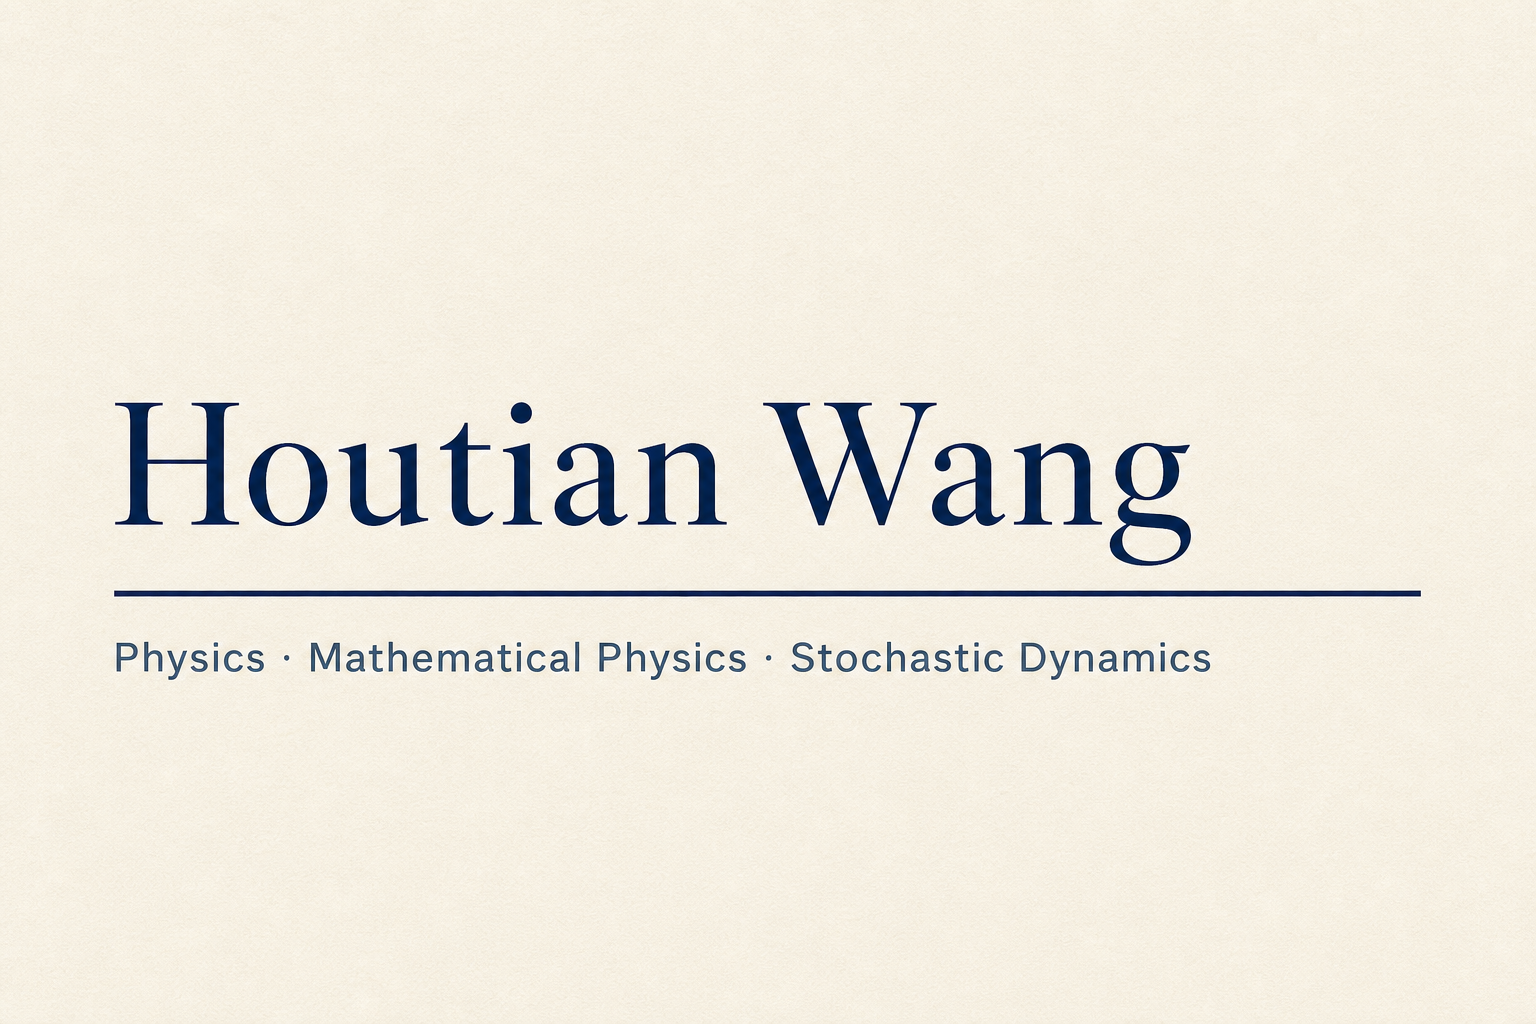
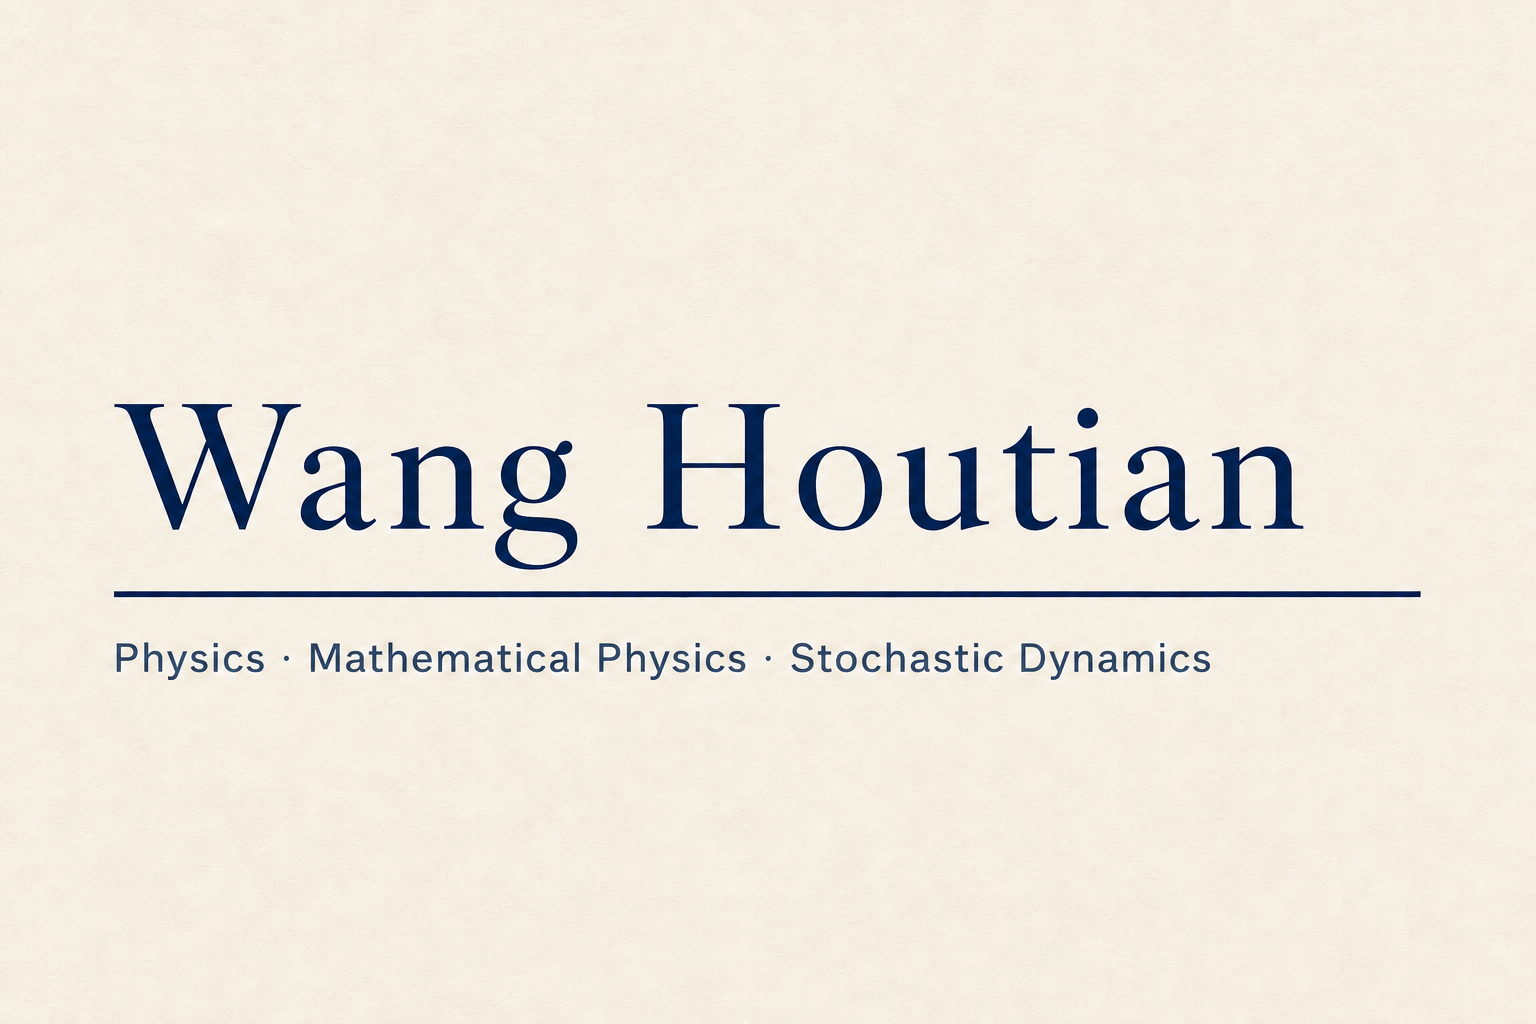
Refine academic name and research directions

Changed region(s): [[0.0625, 0.375, 0.9062, 0.5938], [0.2188, 0.625, 0.7812, 0.6562], [0.0938, 0.625, 0.1875, 0.6562]]

diff --git a/index.html b/index.html
@@ -5,11 +5,11 @@
   <meta name="viewport" content="width=device-width, initial-scale=1">
   <meta
     name="description"
-    content="Academic CV and research profile of Houtian Wang, an undergraduate in Physics and Applied Physics at Nanyang Technological University."
+    content="Academic CV and research profile of Wang Houtian, an undergraduate in Physics and Applied Physics at Nanyang Technological University."
   >
   <meta name="theme-color" content="#f5f3ed">
   <meta property="og:type" content="profile">
-  <meta property="og:title" content="Houtian Wang | Physics">
+  <meta property="og:title" content="Wang Houtian | Physics">
   <meta
     property="og:description"
     content="Undergraduate research in theoretical and mathematical physics, stochastic dynamics, and nonequilibrium thermodynamics."
@@ -19,9 +19,9 @@
     property="og:image"
     content="https://noahwalkerror-hash.github.io/assets/academic-profile-og.png"
   >
-  <meta property="og:image:alt" content="Houtian Wang — Physics, Mathematical Physics, Stochastic Dynamics">
+  <meta property="og:image:alt" content="Wang Houtian — Physics, Mathematical Physics, Stochastic Dynamics">
   <meta name="twitter:card" content="summary_large_image">
-  <meta name="twitter:title" content="Houtian Wang | Physics">
+  <meta name="twitter:title" content="Wang Houtian | Physics">
   <meta
     name="twitter:description"
     content="Undergraduate research in theoretical and mathematical physics, stochastic dynamics, and nonequilibrium thermodynamics."
@@ -30,7 +30,7 @@
     name="twitter:image"
     content="https://noahwalkerror-hash.github.io/assets/academic-profile-og.png"
   >
-  <title>Houtian Wang | Physics</title>
+  <title>Wang Houtian | Physics</title>
 
   <style>
     :root {
@@ -267,6 +267,22 @@
       border-bottom: 0;
     }
 
+    .focus-group + .focus-group {
+      margin-top: 25px;
+      padding-top: 22px;
+      border-top: 1px solid var(--line);
+    }
+
+    .focus-heading {
+      margin-bottom: 9px;
+      color: var(--muted);
+      font-family: Arial, Helvetica, sans-serif;
+      font-size: 0.72rem;
+      font-weight: 800;
+      letter-spacing: 0.08em;
+      text-transform: uppercase;
+    }
+
     .note-title {
       display: block;
       font-family: Georgia, "Times New Roman", serif;
@@ -384,7 +400,7 @@
     <header>
       <div>
         <p class="eyebrow">Academic profile · Physics</p>
-        <h1>Houtian Wang</h1>
+        <h1>Wang Houtian</h1>
         <p class="lead">
           Undergraduate in Physics and Applied Physics at Nanyang Technological
           University, with interests in theoretical and mathematical physics,
@@ -461,12 +477,24 @@
         <section id="interests" aria-labelledby="interests-heading">
           <p class="section-label">Research interests</p>
           <h2 id="interests-heading">Areas of focus</h2>
-          <ul class="plain-list">
-            <li>Mathematical physics</li>
-            <li>Stochastic dynamics</li>
-            <li>Nonequilibrium statistical mechanics</li>
-            <li>Quantum theory and field theory</li>
-          </ul>
+
+          <div class="focus-group">
+            <h3 class="focus-heading">Short term</h3>
+            <ul class="plain-list">
+              <li>Non-Markovian stochastic dynamics</li>
+              <li>Stochastic thermodynamics</li>
+              <li>Nonequilibrium statistical mechanics</li>
+            </ul>
+          </div>
+
+          <div class="focus-group">
+            <h3 class="focus-heading">Long term</h3>
+            <ul class="plain-list">
+              <li>Mathematical physics</li>
+              <li>Quantum field theory</li>
+              <li>Symmetry and representation theory</li>
+            </ul>
+          </div>
         </section>
 
         <section id="notes" aria-labelledby="notes-heading">
@@ -498,7 +526,7 @@
     </main>
 
     <footer>
-      <p>Academic profile of Houtian Wang</p>
+      <p>Academic profile of Wang Houtian</p>
       <p class="version">Version 0.2 · July 2026</p>
     </footer>
   </div>

diff --git a/README.md b/README.md
@@ -1,4 +1,4 @@
-# Houtian Wang — Academic CV site
+# Wang Houtian — Academic CV site
 
 A restrained academic profile for physics research, education, selected notes,
 and contact information.
